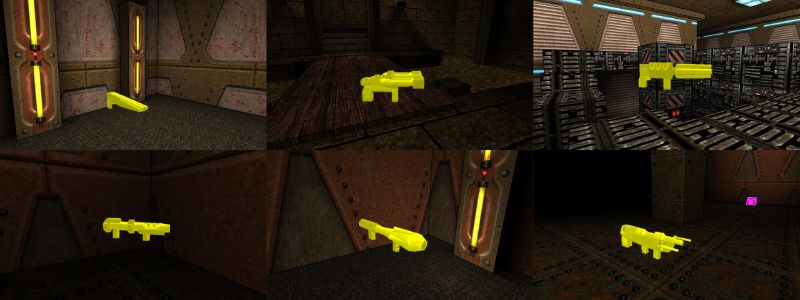
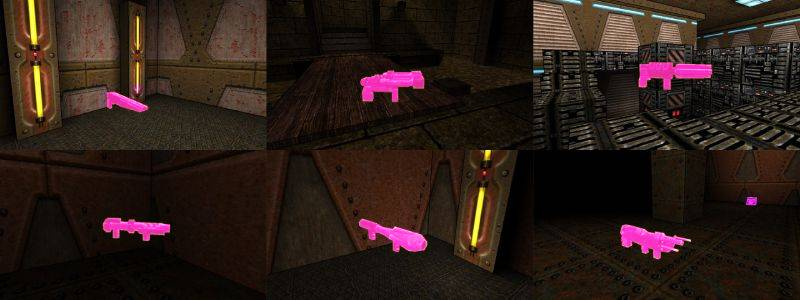
Update weapon textures.

diff --git a/README.md b/README.md
@@ -77,7 +77,7 @@ Source**: [Colorized QRP models and bmodels](https://gfx.quakeworld.nu/details/3
 
 * **Files**: [SSG (g_shot_0.png)](https://github.com/vikpe/qw-streambot-ezquake/blob/main/qw/textures/models/g_shot_0.png), [NG (g_nail_0.png)](https://github.com/vikpe/qw-streambot-ezquake/blob/main/qw/textures/models/g_nail_0.png), [SNG (g_nail2_0.png)](https://github.com/vikpe/qw-streambot-ezquake/blob/main/qw/textures/models/g_nail2_0.png), [GL (g_rock_0.png)](https://github.com/vikpe/qw-streambot-ezquake/blob/main/qw/textures/models/g_rock_0.png), [RL (g_rock2_0.png)](https://github.com/vikpe/qw-streambot-ezquake/blob/main/qw/textures/models/g_rock2_0.png), [LG (g_light_0.png)](https://github.com/vikpe/qw-streambot-ezquake/blob/main/qw/textures/models/g_light_0.png)
 * **Source**: Original Quake textures.
-* **Changes**: Colorization using ImageMagick (`-colorspace gray -fill yellow -tint 160 -colorize 40`)
+* **Changes**: Colorization using ImageMagick (`-colorspace gray -fill magenta -tint 40 -colorize 20`)
 
 ### Projectiles
 
